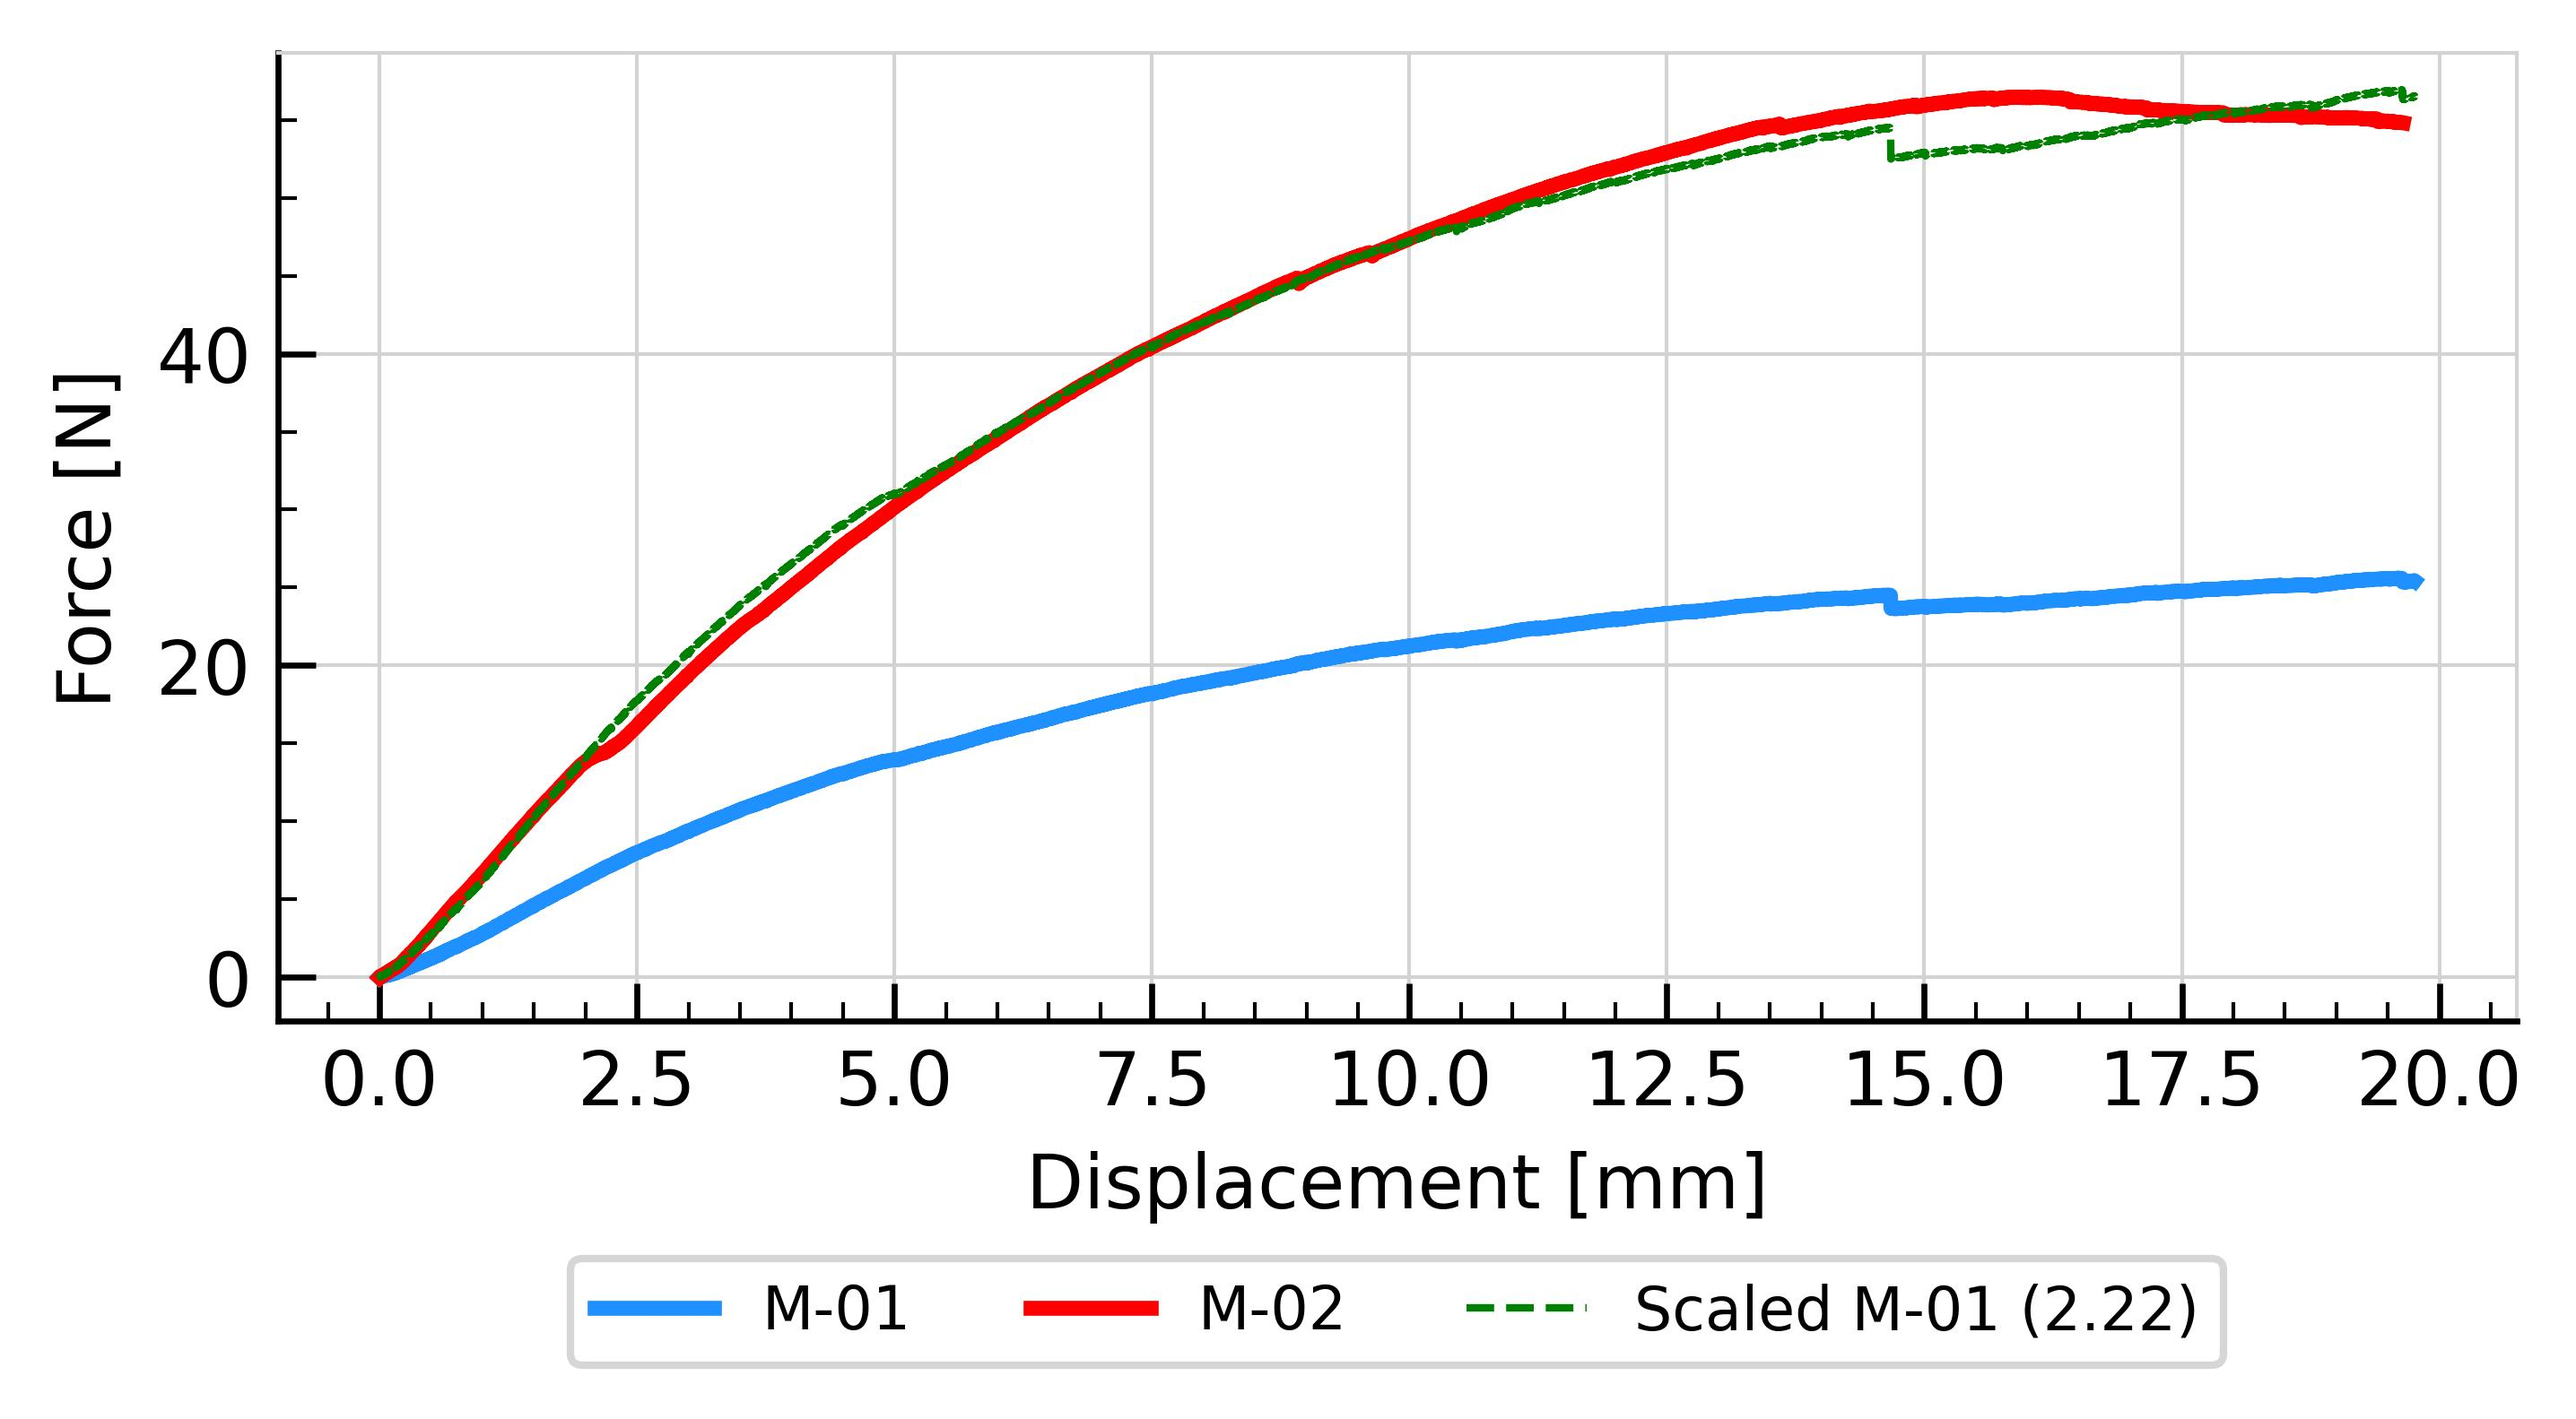
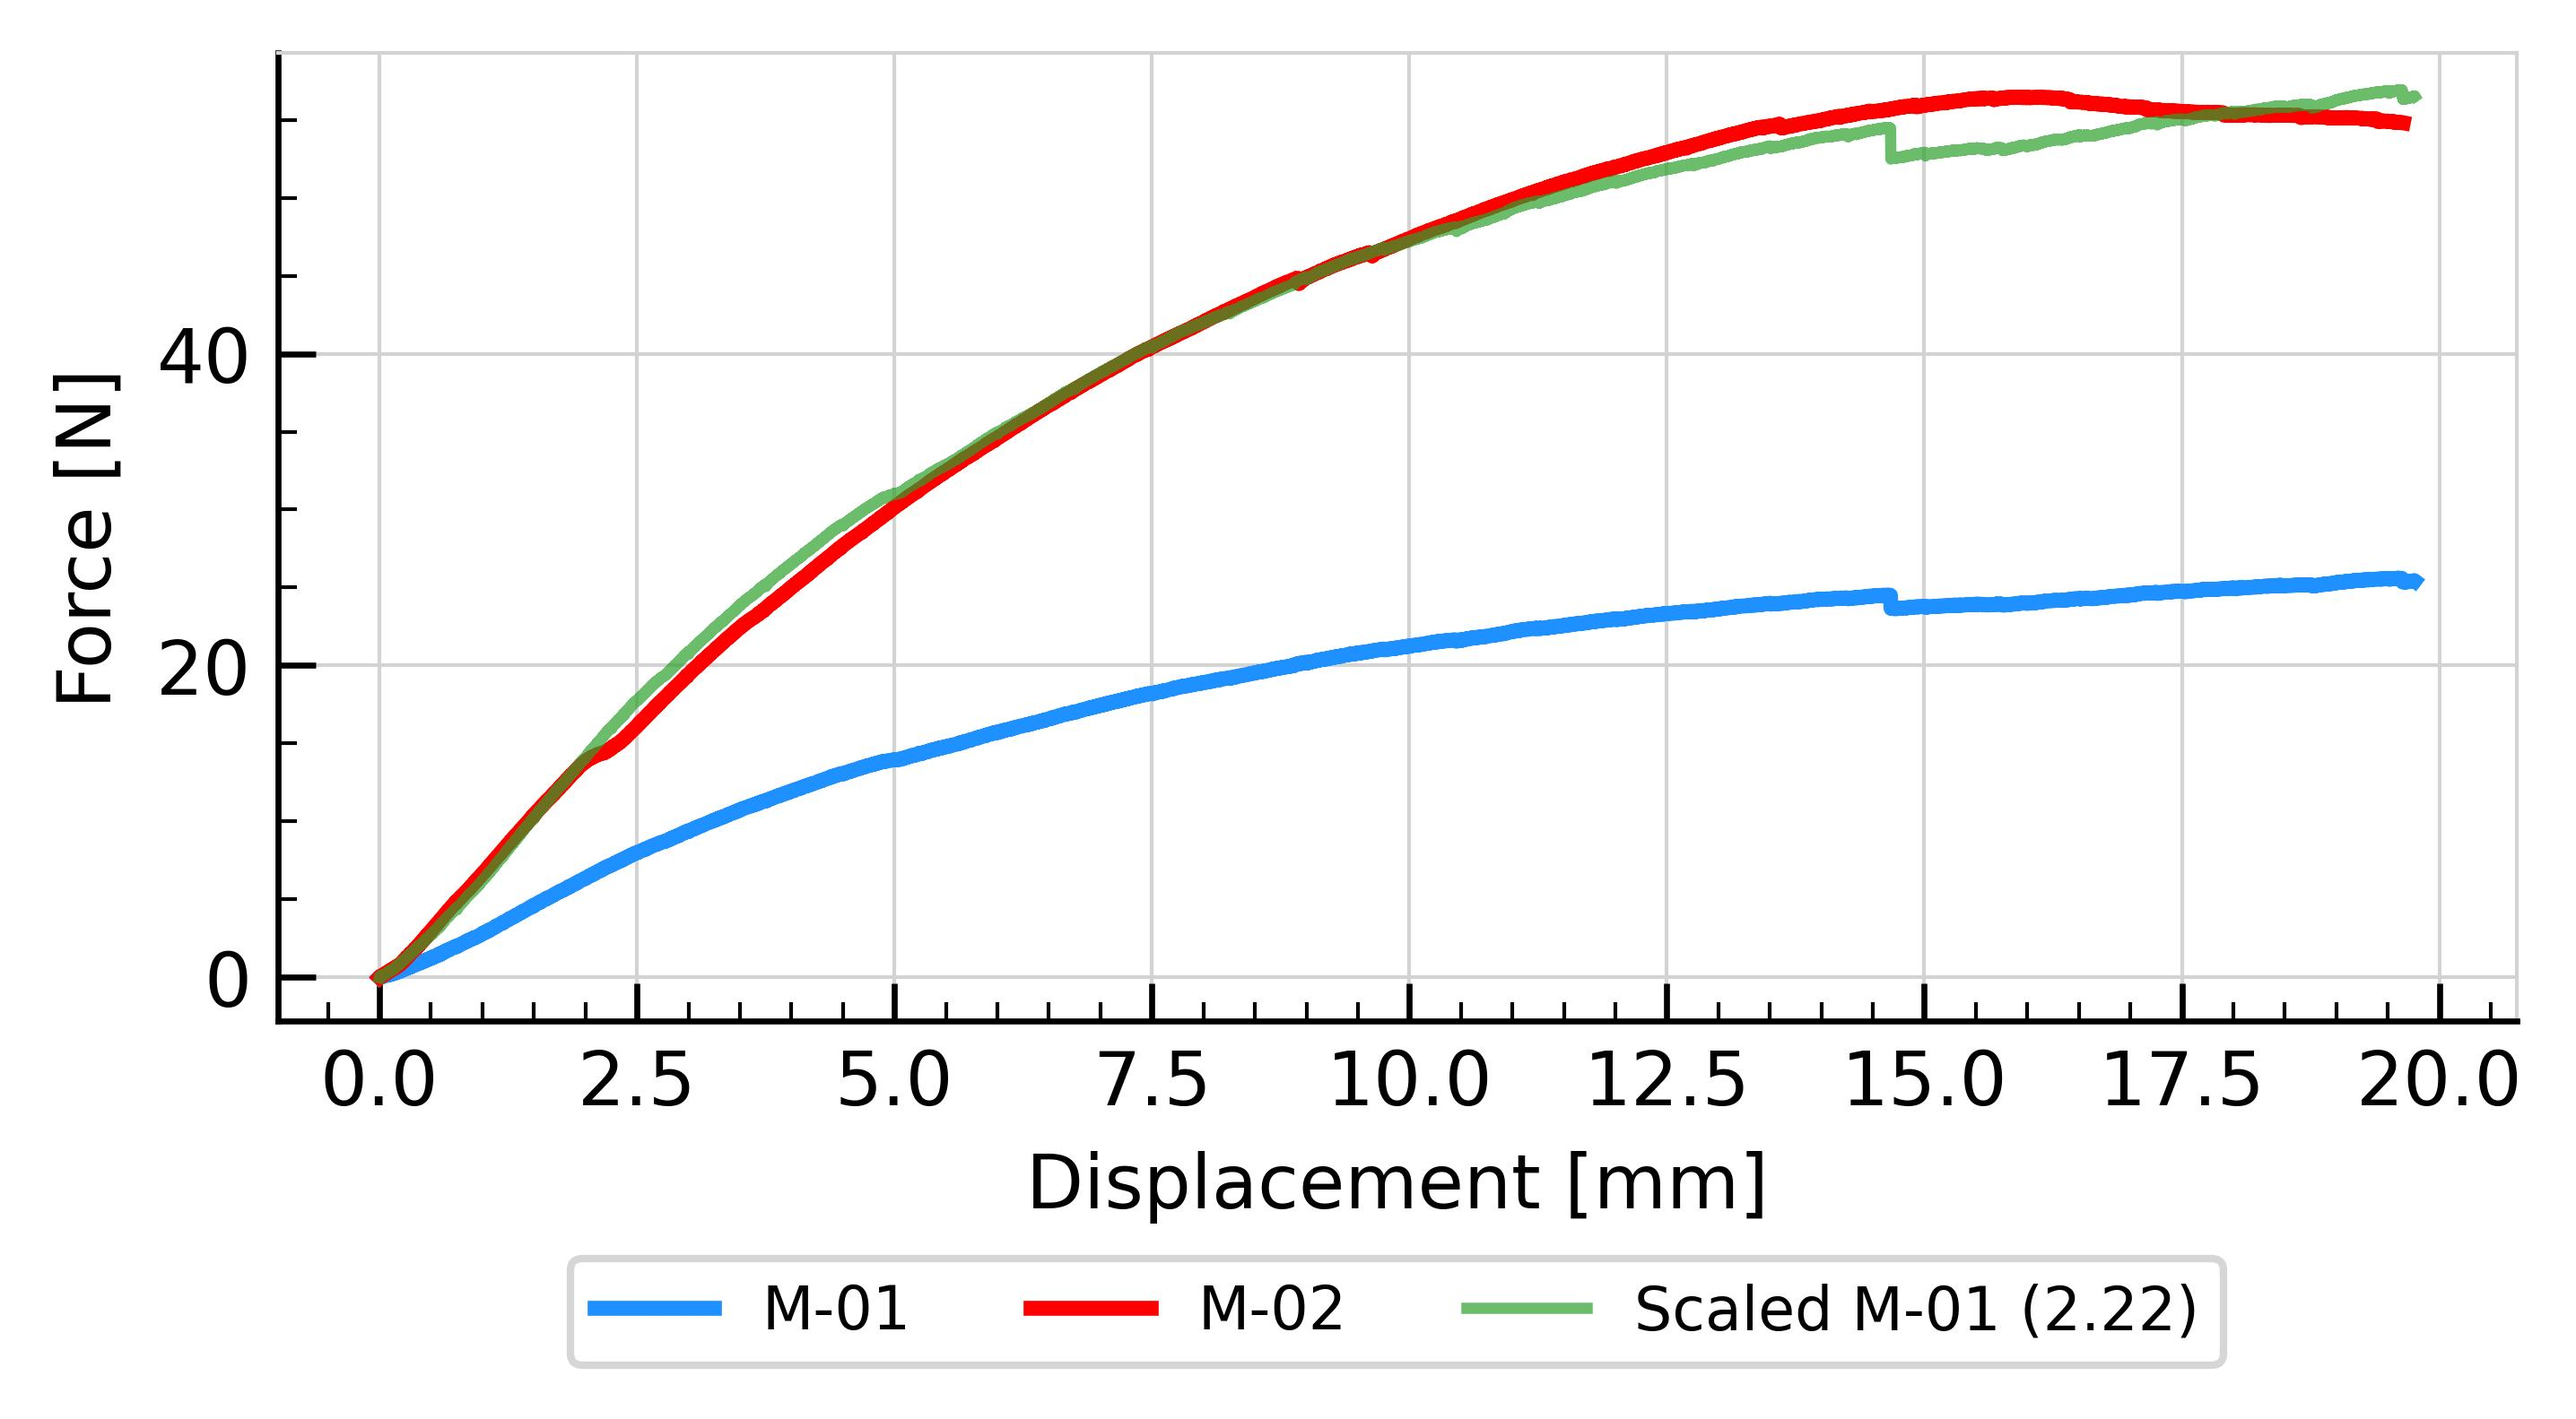
.

diff --git a/Graphical_outputs/FINAL_compare.py b/Graphical_outputs/FINAL_compare.py
@@ -28,7 +28,7 @@ file_type = "jpg"
 out_dpi = 600
 
 cut_spikes = True
-data_type = "T01"
+data_type = "M01"
 scale_m01 = True
 
 mark_linear_part = True
@@ -919,8 +919,8 @@ if data_type == "M01" and scale_m01:
 
     ratio = np.mean(datas_y[1] / datas_y[0])
     print(f"\nRatio: {ratio: .5f}")
-    plt.plot(data_plot_x, datas_y[0] * ratio, ls="--", lw=1, c="green", label=f'Scaled M-01 ({ratio:.2f})',
-             zorder=40)
+    plt.plot(data_plot_x, datas_y[0] * ratio, ls="-", lw=1.5, c="tab:green", label=f'Scaled M-01 ({ratio:.2f})',
+             zorder=40, alpha=0.7)
 
 for axes in [ax, ax2]:
     axes.grid(color="lightgray", linewidth=0.5, zorder=0)
